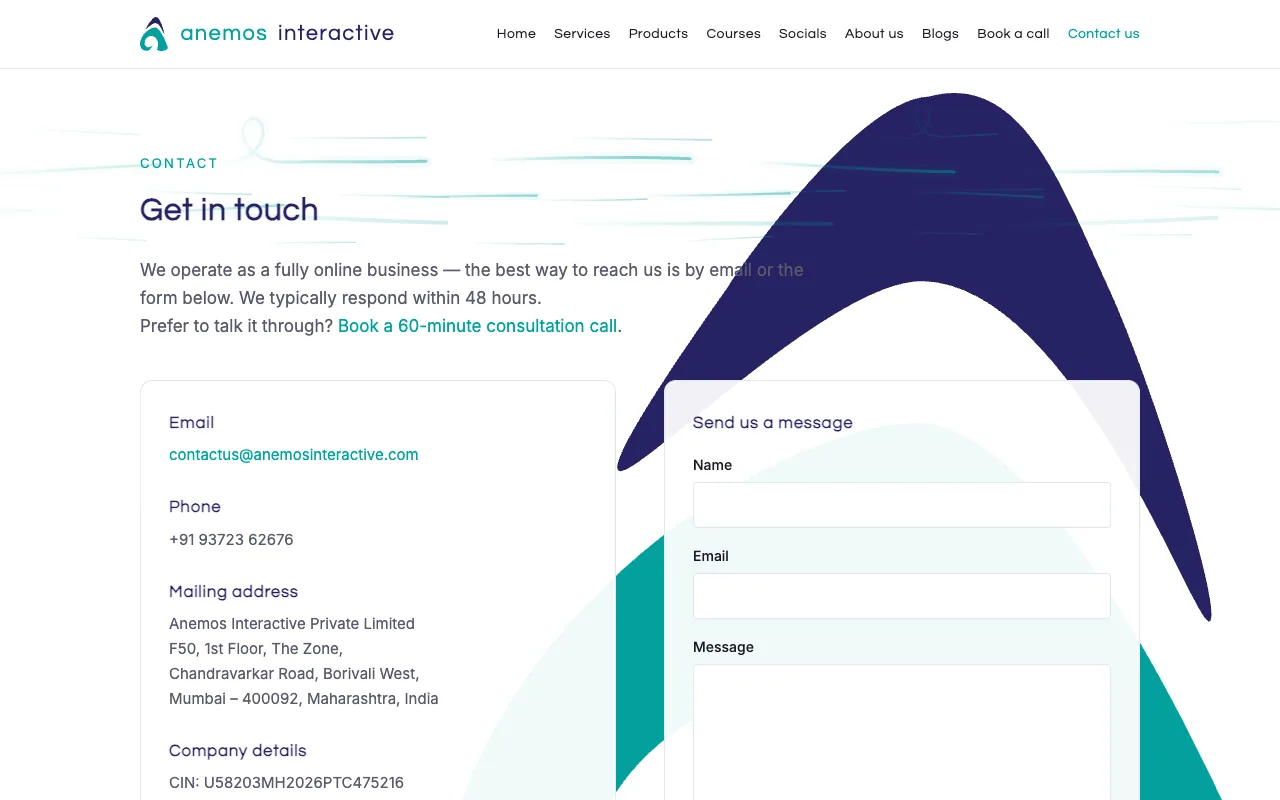
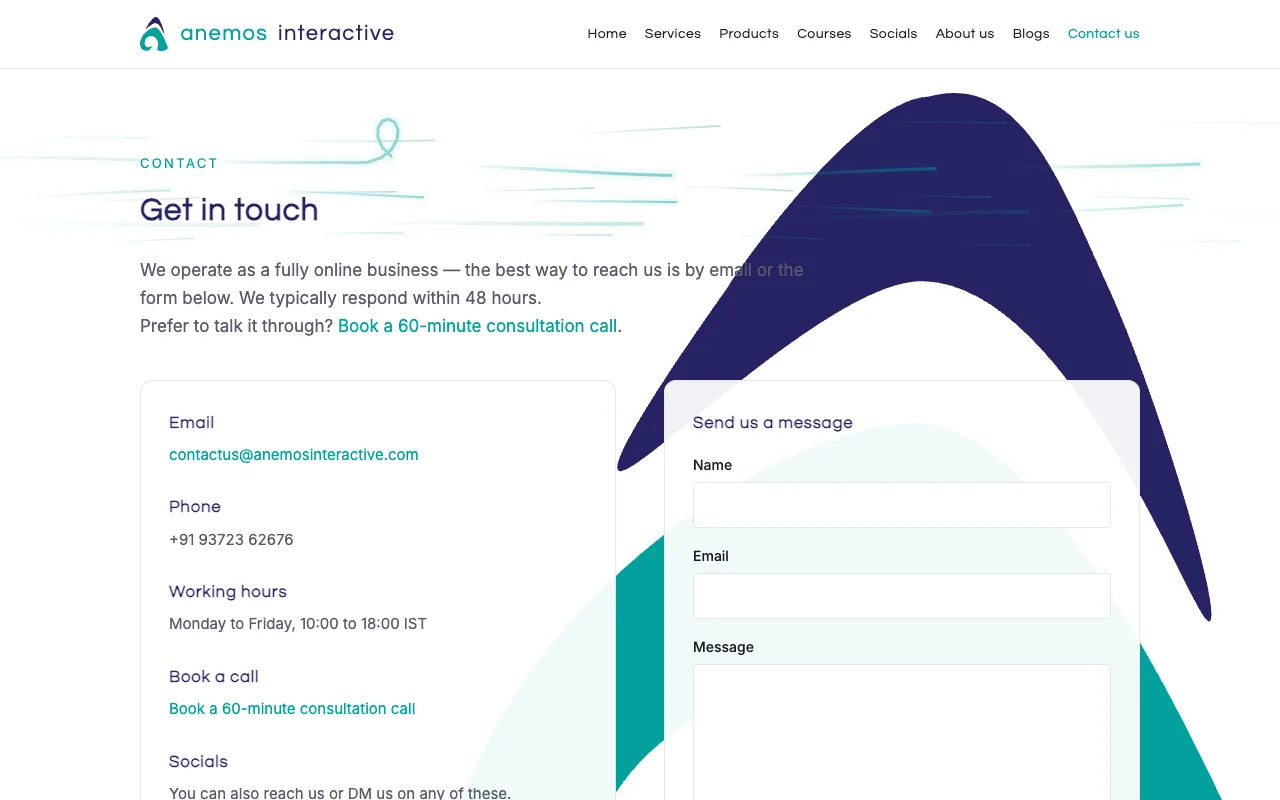
README: contact and company details rows, the Blog Authors rule, stamping on every page, AUTHOR_GROUP in the setup notes; fresh contact screenshot

diff --git a/README.md b/README.md
@@ -54,8 +54,9 @@ The timeline, roughly: a plain static site in late September 2026; the run, the 
 | **Blogs** | Posts from the team, written in a small admin of our own (see below) |
 | **About us** | How we work and who the founders are |
 | **Book a call** | A calendar for a free consultation call, shown in the visitor's local time, booked straight into our calendar |
-| **Contact** | A form, the company details, and the mark from our business card behind the page |
+| **Contact** | A form, email, phone and working hours, the socials you can message us on, and the mark from our business card behind the page |
 | **Privacy, Terms** | Written for visitors in the EU, India and elsewhere, and kept in step with what the site actually collects |
+| **Company details** | The legal name, registered office and registrations, linked from the footer of every page beside Privacy and Terms |
 | **404** | "The wind took this page somewhere else" |
 
 ![Products: It Still Beats, coming soon](docs/screenshots/products.webp)
@@ -93,7 +94,7 @@ The blog is the only dynamic part of the site. It runs in a Cloudflare Worker ([
 
 - **Posts** live in a Cloudflare D1 database ([`schema.sql`](schema.sql)): title, address, summary, Markdown, the rendered HTML, cover image, author, status and dates. Images go into an R2 bucket and are served from `/media/`.
 - **Public pages:** `/blogs` (cards, newest first, twelve per page) and `/blogs/<address>` for each post, in the same style as the rest of the site, with a share image, structured data for search engines, an RSS feed at `/blogs/feed.xml`, and every published post added to `sitemap.xml` automatically. Posts without a cover get a panel with the studio mark so the grid stays even.
-- **Admin:** on its own hostname, behind Cloudflare Access. Only the team's Microsoft 365 accounts can sign in; the Worker verifies the signed token on every request rather than trusting the gate alone. The author's name comes from their Microsoft account, so a rename there changes old posts too. The founder can edit anything; everyone else edits only their own posts.
+- **Admin:** on its own hostname, behind Cloudflare Access, linked from the footer of the blog pages. Only the team's Microsoft 365 accounts that are in the Blog Authors group can sign in; Access checks that at the door, and the Worker verifies the signed token and the group membership again on every request rather than trusting the gate alone. The author's name comes from their Microsoft account, so a rename there changes old posts too. The founder can edit anything; everyone else edits only their own posts.
 - **Writing:** Markdown in a plain text box with a formatting bar (headings, bold, italic, underline, strikethrough, sub- and superscript, links, images, lists, checklists, quotes, code, tables, dividers), a live preview, and the list continuation you'd expect from an editor — Enter continues a list, a second Enter ends it. Images are shrunk in the browser before upload and shown at a consistent width in posts, whatever size they were.
 - **Safety:** everything typed is rendered through an allow-list, so a post can never carry scripts or styles onto the site; uploads are limited to images under 8 MB; the editor's requests carry a header the API insists on; each environment (live and test) has its own database and bucket.
 - **Search engines:** publishing a post pings IndexNow, so Bing and the engines that share its index pick it up within hours.
@@ -103,7 +104,7 @@ The blog is the only dynamic part of the site. It runs in a Cloudflare Worker ([
 - **Fourteen sizes** are checked on every change, from 3840×2160 down to 300×600, including tablets both ways, folding phones open and closed, and phones on their side.
 - **Engines:** Chromium, Gecko (Firefox) and WebKit (Safari), plus Samsung Internet's screen sizes, user agent, dark mode and toolbar heights.
 - **Layout shift is zero.** Fonts are served from the site itself and preloaded, the sections are hidden until the run is ready, and nothing moves after first paint.
-- **Caching:** fonts and the brand set are cached for a year; the stylesheet and scripts for ten minutes. The blog and admin pages stamp their stylesheet and script URLs with a hash on every deploy, so a change shows on the next load without waiting for a cache to expire.
+- **Caching:** fonts and the brand set are cached for a year; the stylesheet and scripts for ten minutes. Every page's stylesheet and script URLs are stamped with a hash on every deploy, so a change shows on the next load without waiting for a cache to expire.
 
 ## Search, sharing and analytics
 
@@ -163,7 +164,7 @@ How it is laid out:
 
 - **One Worker, two environments.** [`wrangler.jsonc`](wrangler.jsonc) describes `anemos-website` (live, on anemosinteractive.com and www) and `anemos-website-test` (test.anemosinteractive.com). Each has its own admin hostname, D1 database and R2 bucket, so nothing written on test can reach the live site. Deploying is `npx wrangler deploy --env <name>`; Cloudflare creates the DNS records and certificates for the hostnames itself.
 - **Static assets first.** Everything in `public/` is uploaded as static assets and served from Cloudflare's edge without running any code — those requests are free and unlimited. The Worker only runs for the paths that need it: the blog, the images, the sitemap, and the HTML pages (so the admin hostname can refuse to serve them). Clean URLs come from the assets layer: `/about.html` is served at `/about`.
-- **Caching** is set in [`public/_headers`](public/_headers): a year for fonts and the brand set, a week for logos and the share image, ten minutes for the stylesheet and scripts. The blog and admin pages avoid even that wait by stamping their stylesheet and script URLs with a content hash on every deploy ([`scripts/stamp.mjs`](scripts/stamp.mjs)).
+- **Caching** is set in [`public/_headers`](public/_headers): a year for fonts and the brand set, a week for logos and the share image, ten minutes for the stylesheet and scripts. Every page avoids even that wait: the Worker stamps the stylesheet and script URLs with a content hash on every deploy ([`scripts/stamp.mjs`](scripts/stamp.mjs)).
 - **Limits that matter.** The Workers free plan allows 100,000 Worker requests a day — tens of thousands of page views; past that, Worker-served pages error rather than bill. D1's free tier is five million reads a day; R2's is ten gigabytes stored with no egress charge; Access is free for up to fifty users. If the blog ever needs more, the paid Workers plan is five dollars a month.
 - **Branches match environments.** `main` is the live site, `test` is where the next release is built and checked. Nothing reaches `main` without passing the checks on `test` first.
 
@@ -192,7 +193,7 @@ npx wrangler d1 execute anemos-blog-test --env test --remote --file=schema.sql  
 npx wrangler dev --env test
 ```
 
-Deploying is one command per environment: `npx wrangler deploy --env test`, or plain `npx wrangler deploy` for the live site. The admin's sign-in is configured per environment with `ACCESS_TEAM_DOMAIN` and `ACCESS_AUD` in `wrangler.jsonc`; until those are set, a `DEV_KEY` secret and a simple sign-in form stand in.
+Deploying is one command per environment: `npx wrangler deploy --env test`, or plain `npx wrangler deploy` for the live site. The admin's sign-in is configured per environment with `ACCESS_TEAM_DOMAIN`, `ACCESS_AUD` and `AUTHOR_GROUP` (the Microsoft group that may post) in `wrangler.jsonc`; until those are set, a `DEV_KEY` secret and a simple sign-in form stand in.
 
 <p align="center"><img src="docs/screenshots/home-phone.webp" width="300" alt="The home page on a phone"></p>
 
@@ -204,7 +205,7 @@ public/admin.*     the blog admin's stylesheet and editor script
 src/worker.js      entry point: public hostnames → the blog pages or static assets; admin hostname → the admin
 src/public.js      /blogs, posts, RSS feed, sitemap, images
 src/admin.js       post list, editor, uploads, the JSON API the editor talks to
-src/auth.js        Cloudflare Access token verification (and the stand-in sign-in for new environments)
+src/auth.js        Cloudflare Access token verification and the Blog Authors group check (and the stand-in sign-in for new environments)
 src/markdown.js    Markdown → HTML with the allow-list sanitiser
 src/db.js          the database queries
 src/layout.js      the shared page shell: header, nav, footer, scripts
